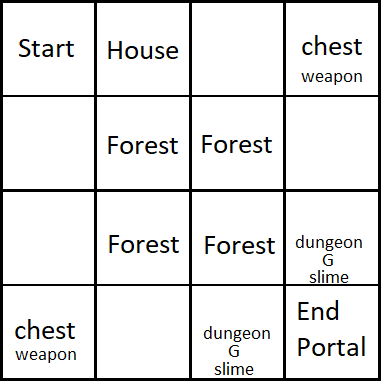
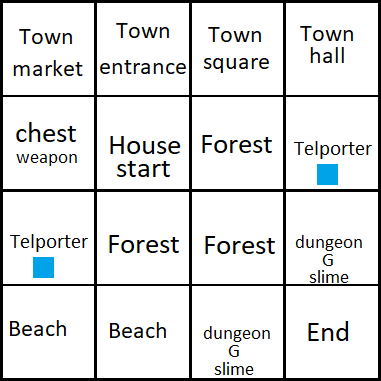
changed layout + game interactivity :sweat_smile:

diff --git a/game.py b/game.py
@@ -17,7 +17,7 @@ class player:
         self.hp = 0
         self.mp = 0
         self.status_effects = []
-        self.location = 'start'
+        self.location = 'b2'
 myPlayer = player()
 
 ##### Title Screen #####
@@ -253,12 +253,58 @@ zonemap = {
 }
 
 
-##### #####
+##### GAME INTERACTIVITY #####
+def print_location():
+    print('\n' + ('#' * (4 + len(myPlayer.location))))
+    print('# ' + myPlayer.location.upper() + ' #')
+    print('# ' + zonemap[myPlayer.location][DESCRIPTION] +' #')
+    print('#' * (4 + len(myPlayer.location)))
+
+def prompt():
+    print('\n' + '===============================')
+    print('What would you like to do?')
+    action = input('> ')
+    acceptable_actions = ['move', 'go', 'travel', 'walk', 'quit', 'examine', 'inspect', 'interact', 'look']
+    while action.lower().strip() not in acceptable_actions:
+        print('Unknown action, try again.\n')
+        action = input('> ')
+    if action.lower().strip() == 'quit':
+        sys.exit()
+    elif action.lower().strip() == ['move', 'go', 'travel', 'walk']:
+        player_move(action.lower().strip())
+    elif action.lower().strip() == ['examine', 'inspect', 'interact', 'look']:
+        player_examine(action.lower().strip())        
+    
+def player_move(myAction):
+    ask = 'Where would you like to move to?\n'
+    dest = input(ask)
+    if dest == ['up', 'north']
+        destination = zonemap[myPlayer.location][UP]
+        movement_handler(destination)
+    elif dest == ['down', 'south']
+        destination = zonemap[myPlayer.location][DOWN]
+        movement_handler(destination)
+    elif dest == ['left', 'west']
+        destination = zonemap[myPlayer.location][LEFT]
+        movement_handler(destination)
+    elif dest == ['right', 'east']
+        destination = zonemap[myPlayer.location][RIGHT]
+        movement_handler(destination)
+def movement_handler(destination):
+    print('\n'+ 'You have moved to ' + destination + '.')
+    myPlayer.location = destination
+    print_location()
+
+def player_examine(action):
+    if zonemap[myPlayer.location][SOLVED]:
+        print('You have already exhasted this zone.')
+    else:
+        print('You triggered a fight against a monster')
+
+
 
 ##### GAME FUNCTIONALITY #####
 def start_game():
-    title_screen()
-
-
+    return
 
 
